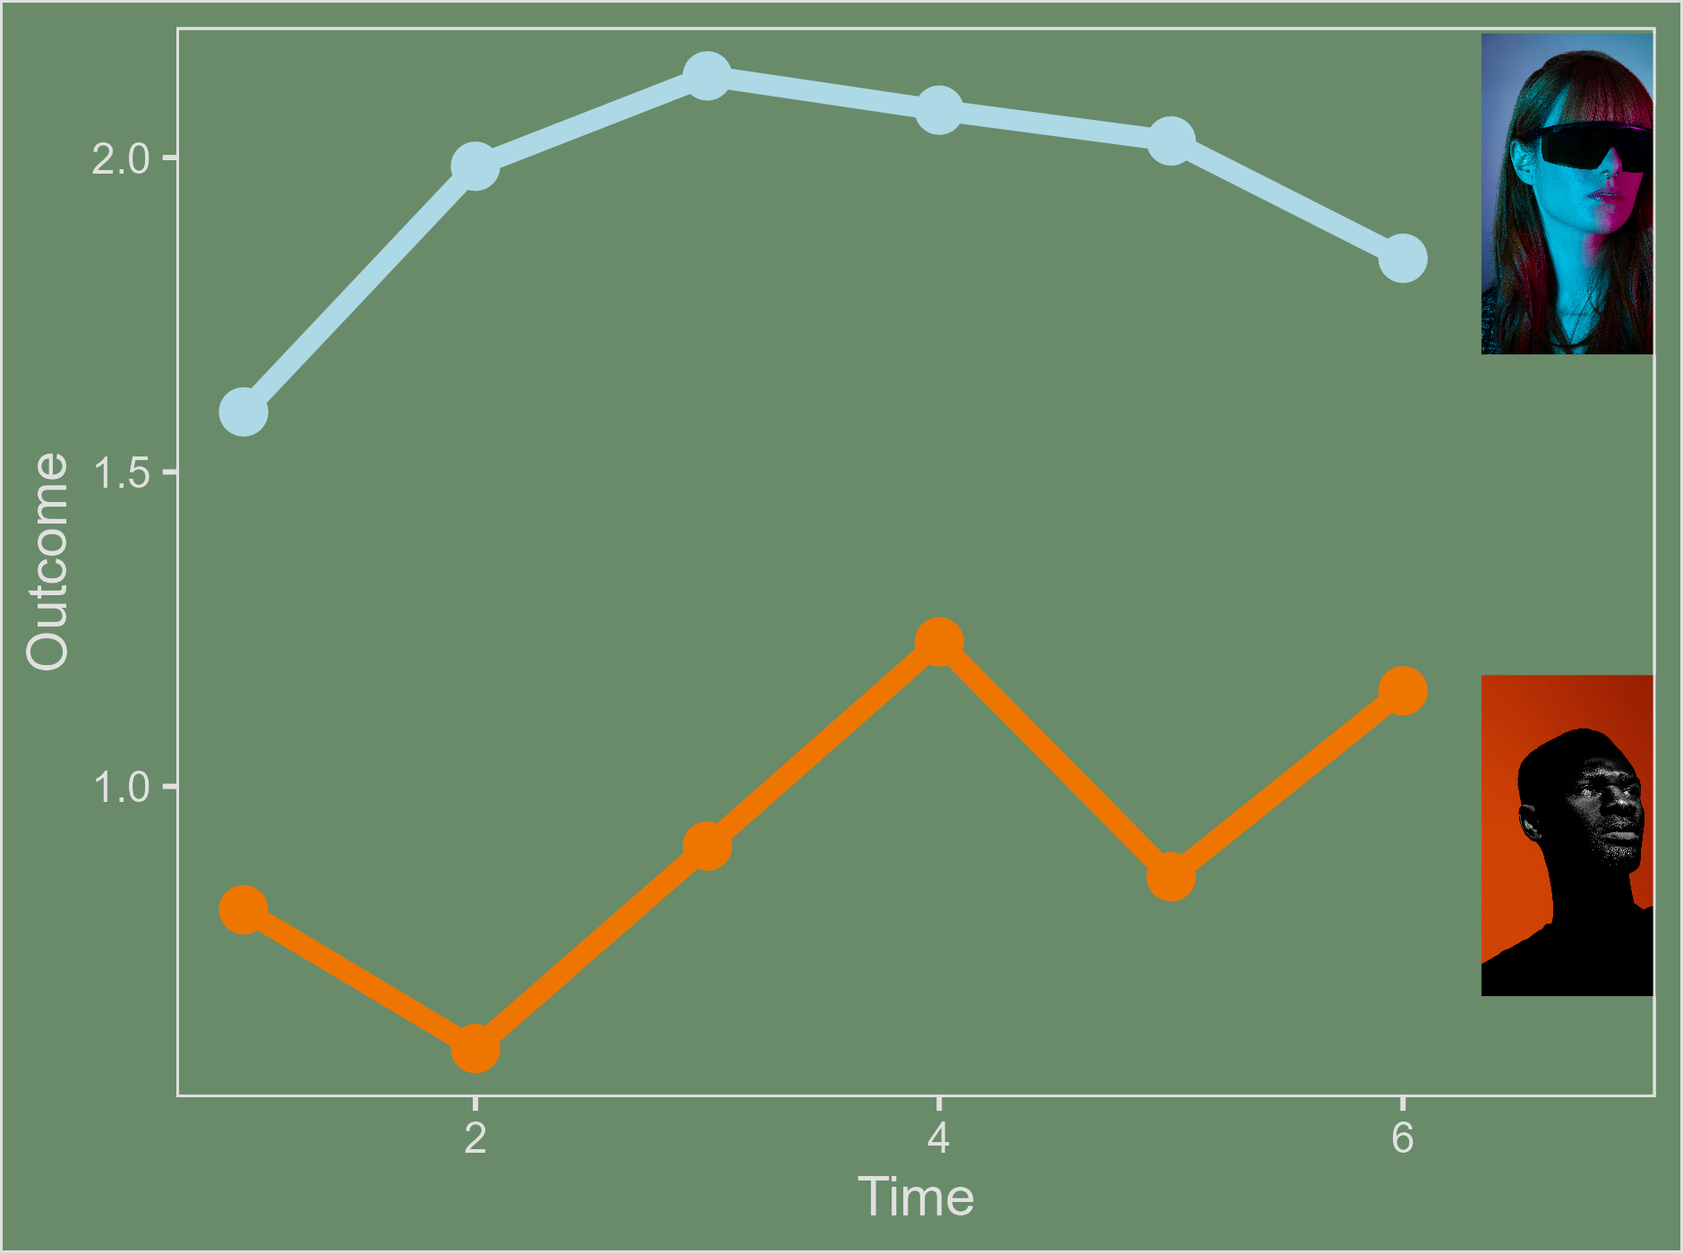
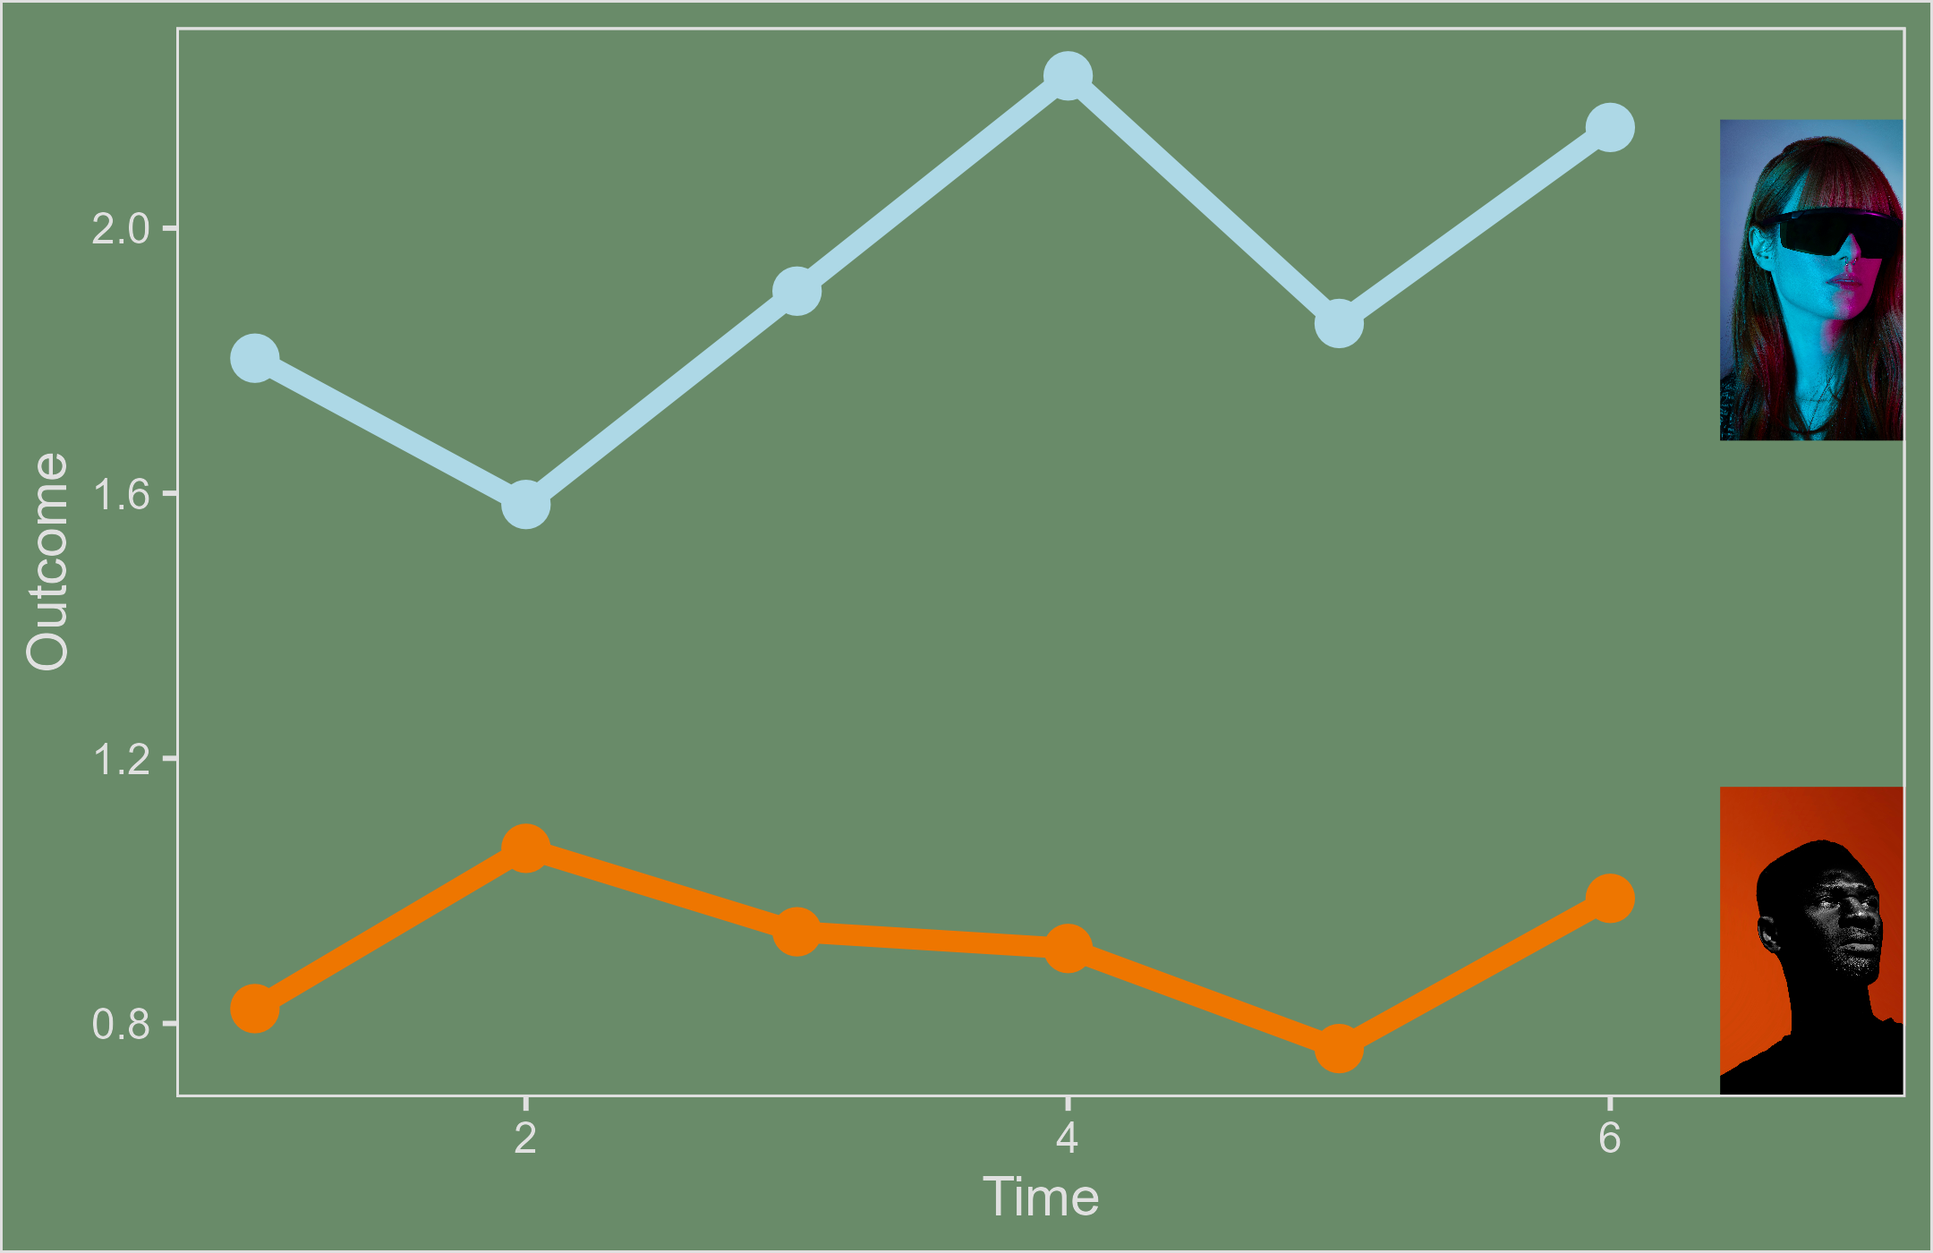
final hrec

diff --git a/hrecs/slides.html b/hrecs/slides.html
@@ -201,8 +201,8 @@ Photo by <a href="https://unsplash.com/@jor9en?utm_source=unsplash&amp;utm_mediu
 </p>
 </div></aside></section>
 <section>
-<section id="current-problems-in-health-and-medical-research" class="title-slide slide level1 center" data-background-image="figures/simon-wilkes-S297j2CsdlM-unsplash.jpg" data-background-opacity="0.4" data-background-size="cover">
-<h1>Current problems in health and medical research</h1>
+<section id="current-problems-in-health-and-medicalvisibilityuncounted-research" class="title-slide slide level1 center" data-background-image="figures/simon-wilkes-S297j2CsdlM-unsplash.jpg" data-background-opacity="0.4" data-background-size="cover">
+<h1>Current problems in health and medical{visibility=“uncounted”} research</h1>
 <!-- instead of aside -->
 <br><br><br><br><br>
 <p style="font-size:80%">
@@ -313,6 +313,15 @@ DOI: <a href="https://www.sciencedirect.com/science/article/pii/S089543562600078
 <section id="current-situation" class="slide level2">
 <h2>Current situation</h2>
 <ul>
+<li>Only 35% of Australian HRECs had a qualified statistician as full member or available for consultation (95% CI: 31% to 40%)</li>
+</ul>
+
+<aside><div>
+<p>DOI: <a href="https://direct.mit.edu/qss/article/doi/10.1162/QSS.a.479/136239">10.1162/QSS.a.479/136239</a></p>
+</div></aside></section>
+<section id="current-situation-1" class="slide level2" data-visibility="uncounted">
+<h2>Current situation</h2>
+<ul>
 <li><p>Only 35% of Australian HRECs had a qualified statistician as full member or available for consultation (95% CI: 31% to 40%)</p></li>
 <li><p>Many HRECs do not examine study design</p>
 <ul>
@@ -336,7 +345,7 @@ Perceived hierarchy of studies which do and do not require statistical review
 <div class="columns">
 <div class="column" style="width:60%;">
 <ul>
-<li><p>The internet and literature is full of bad advice on statistics, so chatbots may regurgitate these errors</p></li>
+<li><p>The internet and literature is full of bad advice on statistics, so AI chatbots may regurgitate these errors</p></li>
 <li><p>AI models provide pleasing answers and have dichotomania. DOIs: <a href="https://www.cambridge.org/core/journals/judgment-and-decision-making/article/artificial-intelligence-and-dichotomania/0421D2310727D73FAB47069FD1620AA1">10.1017/jdm.2025.7</a>; <a href="https://arxiv.org/abs/2509.08713">10.48550/arXiv.2509.08713</a></p></li>
 </ul>
 </div><div class="column" style="width:40%;">
@@ -353,7 +362,7 @@ Photo by <a href="https://unsplash.com/@emilipothese?utm_source=unsplash&amp;utm
 <div class="columns">
 <div class="column" style="width:60%;">
 <ul>
-<li><p>The internet and literature is full of bad advice on statistics, so chatbots may regurgitate these errors</p></li>
+<li><p>The internet and literature is full of bad advice on statistics, so AI chatbots may regurgitate these errors</p></li>
 <li><p>AI models provide pleasing answers and have dichotomania. DOIs: <a href="https://www.cambridge.org/core/journals/judgment-and-decision-making/article/artificial-intelligence-and-dichotomania/0421D2310727D73FAB47069FD1620AA1">10.1017/jdm.2025.7</a>; <a href="https://arxiv.org/abs/2509.08713">10.48550/arXiv.2509.08713</a></p></li>
 <li><p>AI as an addition to human journal peer reviewer is promising</p></li>
 <li><p>AI as an additional ethical reviewer?</p></li>
@@ -417,6 +426,7 @@ Photo by <a href="https://unsplash.com/@jontyson?utm_source=unsplash&amp;utm_med
 <li class="fragment"><p>Patients with extreme back pain are referred to a new back program. Patients are measured at baseline and six weeks follow-up.</p></li>
 <li class="fragment"><p>Adaptive trials at risk, especially for “non-responders”</p></li>
 </ul>
+<!--- real example on depression if needed --->
 </section>
 <section id="regression-to-the-mean-3" class="slide level2">
 <h2>Regression to the mean</h2>
@@ -424,7 +434,7 @@ Photo by <a href="https://unsplash.com/@jontyson?utm_source=unsplash&amp;utm_med
 <li>Happens in studies that include time</li>
 </ul>
 <ul>
-<li class="fragment"><p>Individuals/groups/locations measured before and after some intervention</p></li>
+<li class="fragment"><p>Individuals/groups/locations measured before and after some intervention, treatment, policy change, etc</p></li>
 <li class="fragment"><p>Can be monthly or weekly statistics, e.g., death counts</p></li>
 <li class="fragment"><p>Only occurs if there is measurement error, also known as noise or randomness</p>
 <ul>
@@ -536,10 +546,10 @@ Question: Is there any outcome in health and medicine that does not have some me
 <h2>Equivalence</h2>
 <h3 id="study-design">Study design</h3>
 <ul>
-<li>Need to <em>a priori</em> define what is considered equivalent
+<li>Define <em>a priori</em> what is considered equivalent
 <ul>
 <li>Example: “A patient and public involvement group predefined the non-inferiority margin as one episode of urinary tract infection per person year.” DOI: <a href="https://pubmed.ncbi.nlm.nih.gov/35264408">10.1136/bmj-2021-0068229</a></li>
-<li>Consider the efficacy of two drugs as equivalent if the percentage cured is no more than 10%</li>
+<li>Consider the efficacy of two drugs as equivalent if difference in the percentage cured is no more than 10%</li>
 </ul></li>
 </ul>
 </section>
@@ -608,7 +618,7 @@ Photo by <a href="https://unsplash.com/@rishabhben?utm_source=unsplash&amp;utm_m
 <h3 id="discarding-information">Discarding information</h3>
 
 <img data-src="figures/99_non_linear2.jpg" class="r-stretch"><ul>
-<li>Inefficient and potentially misleading</li>
+<li>Arbitrary, inefficient and potentially misleading</li>
 </ul>
 </section>
 <section id="dichotomania-2" class="slide level2">
@@ -622,7 +632,7 @@ Photo by <a href="https://unsplash.com/@rishabhben?utm_source=unsplash&amp;utm_m
 <section id="dichotomania-3" class="slide level2" data-background-color="white">
 <h2>Dichotomania</h2>
 <ul>
-<li class="fragment"><p>“Only about 60% of the information is retained after dichotomization”</p></li>
+<li class="fragment"><p>“Only about 60% of the information is retained after dichotomization” (based on over 21,000 trials)</p></li>
 <li class="fragment"><p>Example using <a href="https://vanzwet.shinyapps.io/info_loss/">this web page</a>:</p>
 <ul>
 <li class="fragment"><p style="font-size:70%">
@@ -644,7 +654,7 @@ DOI: <a href="https://onlinelibrary.wiley.com/doi/full/10.1002/sim.70402">10.100
 <h2>Dichotomania</h2>
 <h3 id="unacceptable-excuses-to-dichotomise">Unacceptable excuses to dichotomise:</h3>
 <ul>
-<li><p>“This approach is standard in our field”</p></li>
+<li><p>“A binary design is standard in our field”</p></li>
 <li><p>“We used a clinically meaningful cut-off”</p></li>
 <li><p>“We used a continuous outcome as a secondary analysis”</p></li>
 </ul>
@@ -693,7 +703,7 @@ DOI: <a href="https://onlinelibrary.wiley.com/doi/full/10.1002/sim.70402">10.100
 <ul>
 <li><p>Any time-to-event data needs a time-to-event analysis</p></li>
 <li><p>For example, time from surgery to readmission to hospital</p></li>
-<li><p>Can also have censoring, e.g., those people who were never readmitted during the study period</p></li>
+<li><p>Can also have censoring, e.g., those people who were never readmitted to hospital during the study period</p></li>
 </ul>
 <ul>
 <li class="fragment"><p>Common error to use logistic regression, e.g., binary outcome of readmission (yes/no)</p></li>
@@ -785,7 +795,7 @@ Never condition on the future
 State-space model combined with survival analysis that allows people to move between states (advanced statistical method)
 </p></li>
 <li><p style="font-size:80%">
-Active controls, e.g., statin A vs statin B
+Active instead of non-active controls, e.g., statin&nbsp;A vs statin&nbsp;B instead of statin&nbsp;A vs no treatment
 </p></li>
 </ul>
 </div><div class="column" style="width:41%;">
@@ -824,7 +834,7 @@ Active controls, e.g., statin A vs statin B
 <li>How many people/participants/patients do we need to answer our research question?</li>
 </ul>
 <ul>
-<li class="fragment">Key unknowns:
+<li class="fragment">Key assumptions:
 <ul>
 <li class="fragment">Difference between groups</li>
 <li class="fragment">Standard deviation (variance) in outcome</li>
@@ -836,7 +846,7 @@ Active controls, e.g., statin A vs statin B
 <section id="sample-size-1" class="slide level2" data-background-color="#e2ffe3">
 <h2>Sample size</h2>
 
-<img data-src="figures/type.errors.jpg" width="490" class="r-stretch"><ul>
+<img data-src="figures/type.errors.jpg" class="r-stretch"><ul>
 <li>Usually set at 5% type I and 20% for type 2 (often dogmatic)</li>
 </ul>
 </section>
@@ -894,6 +904,15 @@ Active controls, e.g., statin A vs statin B
 <aside><div>
 <p>DOIs: <a href="https://link.springer.com/article/10.1186/1741-7015-8-17">10.1186/1741-7015-8-17</a> &amp; <a href="https://www.bmj.com/content/345/bmj.e5278.long">10.1136/bmj.e5278</a></p>
 </div></aside></section>
+<section id="section-1" class="slide level2" data-background-color="white">
+<h2></h2>
+<p><img data-src="figures/sample_size_lady_helen.jpg" width="690"></p>
+
+<aside><div>
+<p style="color:black">
+<a href="https://commons.wikimedia.org/wiki/File:Sargent_Portrait_of_Lady_Helen_Vincent_1904.jpg">Lady Helen Vincent</a> by John Singer Sargent, Public domain, via Wikimedia Commons
+</p>
+</div></aside></section>
 <section id="sample-size-5" class="slide level2" data-background-color="#228B22">
 <h2>Sample size</h2>
 <ul>
@@ -907,15 +926,6 @@ Active controls, e.g., statin A vs statin B
 <li>Can use simulation in these cases, requires consultation with a statistician</li>
 </ul>
 </section>
-<section id="section-1" class="slide level2" data-background-color="white">
-<h2></h2>
-<p><img data-src="figures/sample_size_lady_helen.jpg" width="690"></p>
-
-<aside><div>
-<p style="color:black">
-<a href="https://commons.wikimedia.org/wiki/File:Sargent_Portrait_of_Lady_Helen_Vincent_1904.jpg">Lady Helen Vincent</a> by John Singer Sargent, Public domain, via Wikimedia Commons
-</p>
-</div></aside></section>
 <section id="sample-size-6" class="slide level2" data-background-color="#476685">
 <h2>Sample size</h2>
 <h3 id="summary-4">Summary</h3>
@@ -966,7 +976,8 @@ From Crispin Porter + Bogusky on <a href="https://commons.wikimedia.org/wiki/Fil
 <h2>Blinding</h2>
 <ul>
 <li class="fragment"><p>Animal studies that did not use randomisation and blinding were far more likely to have a positive result, odds ratio = 5.2 (95% CI: 2.0 to 13.5)</p></li>
-<li class="fragment"><p>Many researchers appear unaware as to the importance of blinding</p></li>
+<li class="fragment"><p>Many researchers appear unaware of the importance of blinding</p></li>
+<li class="fragment"><p>“If I was king of the world […] I would insist that every experiment was performed blinded.” <a href="https://www.youtube.com/watch?v=YJADzllTM9w">Dr Glen Begley</a></p></li>
 </ul>
 
 <aside><div>
@@ -1049,6 +1060,21 @@ Photo by <a href="https://unsplash.com/@claybanks?utm_content=creditCopyText&amp
 <ul>
 <li><p>Model of 200+ variables predicting in-hospital mortality</p></li>
 <li><p>Whether the patient had breakfast was a huge predictor of mortality</p></li>
+</ul>
+</div><div class="column" style="width:40%;">
+<p><img data-src="figures/zheyu-huang-pKRL1XaO_zE-unsplash.jpg"></p>
+</div></div>
+
+<aside><div>
+<p>Photo by <a href="https://unsplash.com/@papayaboii?utm_source=unsplash&amp;utm_medium=referral&amp;utm_content=creditCopyText">Zheyu Huang</a> on <a href="https://unsplash.com/photos/a-row-of-beds-in-a-room-with-tiled-walls-pKRL1XaO_zE?utm_source=unsplash&amp;utm_medium=referral&amp;utm_content=creditCopyText">Unsplash</a></p>
+</div></aside></section>
+<section id="observational-data-2" class="slide level2" data-background-color="#766d75" data-visibility="uncounted">
+<h2>Observational data</h2>
+<div class="columns">
+<div class="column" style="width:60%;">
+<ul>
+<li><p>Model of 200+ variables predicting in-hospital mortality</p></li>
+<li><p>Whether the patient had breakfast was a huge predictor of mortality</p></li>
 <li><p>Already dead or nearly dead patients don’t get breakfast</p></li>
 <li><p>Statistically true, but practically useless</p></li>
 </ul>
@@ -1059,24 +1085,30 @@ Photo by <a href="https://unsplash.com/@claybanks?utm_content=creditCopyText&amp
 <aside><div>
 <p>Photo by <a href="https://unsplash.com/@papayaboii?utm_source=unsplash&amp;utm_medium=referral&amp;utm_content=creditCopyText">Zheyu Huang</a> on <a href="https://unsplash.com/photos/a-row-of-beds-in-a-room-with-tiled-walls-pKRL1XaO_zE?utm_source=unsplash&amp;utm_medium=referral&amp;utm_content=creditCopyText">Unsplash</a></p>
 </div></aside></section>
-<section id="observational-data-2" class="slide level2">
+<section id="observational-data-3" class="slide level2">
 <h2>Observational data</h2>
 <h3 id="confounding-1">Confounding</h3>
 <ul>
 <li><p>Every variable is complex, think about your age for example, that predicts a lot about you but not everything and it also comes with “baggage”</p></li>
-<li><p>No statistical method makes the problem of confounding disappear</p>
-<ul>
-<li>“We will use propensity score matching to adjust for confounding” - this is an inadequate statement without a lot more detail</li>
-</ul></li>
+<li><p>No statistical method makes the problem of confounding disappear</p></li>
+<li><p>“We will use propensity score matching to adjust for confounding” - this is an inadequate statement without a lot more detail</p></li>
 </ul>
 </section>
-<section id="observational-data-3" class="slide level2">
+<section id="observational-data-4" class="slide level2">
 <h2>Observational data</h2>
 <ul>
-<li><p>Complex statistical methods, such as matching, are often applied with little deep thought</p>
+<li><p>Complex statistical methods, such as matching, are often applied with little deep thought</p></li>
+<li><p>Not a magic wand, can make things worse</p></li>
+</ul>
+
+<aside><div>
+<p>DOI: <a href="https://pubmed.ncbi.nlm.nih.gov/28104076/">10.1016/j.jacc.2016.10.060</a></p>
+</div></aside></section>
+<section id="observational-data-5" class="slide level2" data-visibility="uncounted">
+<h2>Observational data</h2>
 <ul>
-<li>Not a magic wand, can make things worse</li>
-</ul></li>
+<li><p>Complex statistical methods, such as matching, are often applied with little deep thought</p></li>
+<li><p>Not a magic wand, can make things worse</p></li>
 <li><p>What’s needed is a thorough understanding of the data and the relationships between variables</p></li>
 <li><p>Conventional statistical methods can be just as good as matching; it’s the thinking not the method that’s important</p></li>
 </ul>
@@ -1084,7 +1116,7 @@ Photo by <a href="https://unsplash.com/@claybanks?utm_content=creditCopyText&amp
 <aside><div>
 <p>DOI: <a href="https://pubmed.ncbi.nlm.nih.gov/28104076/">10.1016/j.jacc.2016.10.060</a></p>
 </div></aside></section>
-<section id="observational-data-4" class="slide level2">
+<section id="observational-data-6" class="slide level2">
 <h2>Observational data</h2>
 <h3 id="variable-selection">Variable selection</h3>
 <ul>
@@ -1093,14 +1125,14 @@ Photo by <a href="https://unsplash.com/@claybanks?utm_content=creditCopyText&amp
 <li><p>Backwards selection is better, also other techniques such as LASSO</p></li>
 </ul>
 </section>
-<section id="observational-data-5" class="slide level2" data-background-color="white">
+<section id="observational-data-7" class="slide level2" data-background-color="white">
 <h2>Observational data</h2>
 <h3 id="draw-a-casual-diagram">Draw a casual diagram</h3>
 <div class="columns">
 <div class="column" style="width:50%;">
 <ul>
 <li><p>No statistical or AI algorithm can understand chemistry, biology, social determinants, etc</p></li>
-<li><p>Draw a causal diagram, think about the data and your question; think about who and what are missing</p></li>
+<li><p>Draw a causal diagram, think about the data and the question; think about who and what are missing</p></li>
 </ul>
 </div><div class="column" style="width:50%;">
 <p><img data-src="figures/99_confounders1b.jpg"></p>
@@ -1113,7 +1145,7 @@ Photo by <a href="https://unsplash.com/@claybanks?utm_content=creditCopyText&amp
 <li>Data is often correlated
 <ul>
 <li>Repeated data from the same person</li>
-<li>Repeated data from the same clinic, town, area, etc</li>
+<li>Repeated data from the same clinic, town, school, etc</li>
 </ul></li>
 </ul>
 </section>
@@ -1123,7 +1155,7 @@ Photo by <a href="https://unsplash.com/@claybanks?utm_content=creditCopyText&amp
 <li><p>Data is often correlated</p>
 <ul>
 <li>Repeated data from the same person</li>
-<li>Repeated data from the same clinic, town, area, etc</li>
+<li>Repeated data from the same clinic, town, school, etc</li>
 </ul></li>
 <li><p>Following people/places repeated can be a great design …</p></li>
 <li><p>… but the repeated data must be included in the analyses</p></li>
@@ -1135,11 +1167,12 @@ Photo by <a href="https://unsplash.com/@claybanks?utm_content=creditCopyText&amp
 <li class="fragment"><p>Many common statistical methods assume data is independent (e.g., t-test, linear regression)</p></li>
 <li class="fragment"><p>Each observation is whole “packet” of new information</p></li>
 <li class="fragment"><p>That’s not true when we follow individuals repeatedly</p></li>
-<li class="fragment"><p>Treating correlated variables as independent falsely increases the sample size and the certainty (risk of Type&nbsp;1 errors)</p></li>
+<li class="fragment"><p>Treating correlated variables as independent falsely increases the sample size and the statistical certainty (risk of Type&nbsp;1 errors)</p></li>
 </ul>
 </section>
 <section id="dependence-3" class="slide level2" data-background-color="#698B69">
 <h2>Dependence</h2>
+<!--- from plot_dependence.R --->
 <p><img data-src="figures/correlation.png" height="520"></p>
 
 <aside><div>
@@ -1148,14 +1181,14 @@ Photo by <a href="https://unsplash.com/@claybanks?utm_content=creditCopyText&amp
 <section id="dependence-4" class="slide level2" data-background-color="#698B69">
 <h2>Dependence</h2>
 <div class="columns">
-<div class="column" style="width:62%;">
+<div class="column" style="width:55%;">
 <ul>
 <li>Study of heart monitors in heart failure patients</li>
-<li>29 patients monitored for 3 days wearing multiple devices</li>
+<li>29 patients monitored for 3&nbsp;days wearing multiple devices</li>
 <li>Wider confidence intervals (more uncertainty) after accounting for within-person dependence</li>
 </ul>
-</div><div class="column" style="width:38%;">
-<p><img data-src="figures/dependence.jpg" class="absolute" style="top: 60px; right: 0px; width: 520px; "> <!--- from plot_dependence ---></p>
+</div><div class="column" style="width:45%;">
+<p><img data-src="figures/dependence.jpg" class="absolute" style="top: 120px; right: 0px; width: 480px; "> <!--- from plot_dependence ---></p>
 </div></div>
 
 <aside><div>
@@ -1168,7 +1201,7 @@ Photo by <a href="https://unsplash.com/@claybanks?utm_content=creditCopyText&amp
 <div class="column" style="width:50%;">
 <ul>
 <li><p>Dependence is often missed</p></li>
-<li><p>Can increase the risk of a Type&nbsp;1 error</p></li>
+<li><p>Likely to increase the risk of a Type&nbsp;1 error</p></li>
 <li><p>Fixable with statistical adjustment</p></li>
 </ul>
 </div><div class="column" style="width:50%;">
@@ -1195,6 +1228,21 @@ Photo by <a href="https://unsplash.com/@laukev?utm_source=unsplash&amp;utm_mediu
 <li class="fragment"><p>Steer researchers towards simpler designs</p></li>
 </ul>
 </section>
+<section id="nudge" class="slide level2" data-background-color="#213e46">
+<h2>Nudge</h2>
+<div class="columns">
+<div class="column" style="width:60%;">
+<ul>
+<li><p>Ask researchers about publishing a protocol, checking their statistical models, sharing their data/code</p></li>
+<li><p>Steer researchers away from clinical prediction models, especially if nobody on the team has statistical qualifications</p></li>
+</ul>
+</div><div class="column" style="width:40%;">
+<p><img data-src="figures/35mm-IstXvxHGoA4-unsplash.jpg" class="absolute" style="top: 60px; right: 0px; height: 490px; "></p>
+</div></div>
+
+<aside><div>
+<p>Photo by <a href="https://unsplash.com/@35mm?utm_source=unsplash&amp;utm_medium=referral&amp;utm_content=creditCopyText">35mm</a> on <a href="https://unsplash.com/photos/a-row-of-street-signs-sitting-on-the-side-of-a-road-IstXvxHGoA4?utm_source=unsplash&amp;utm_medium=referral&amp;utm_content=creditCopyText">Unsplash</a></p>
+</div></aside></section>
 <section id="online-resources" class="slide level2">
 <h2>Online resources</h2>
 <ul>
